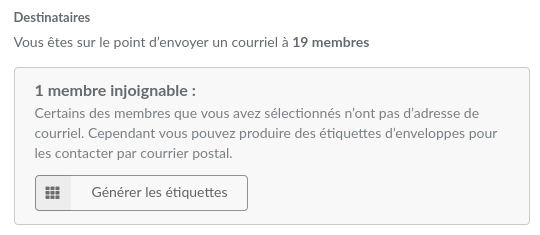
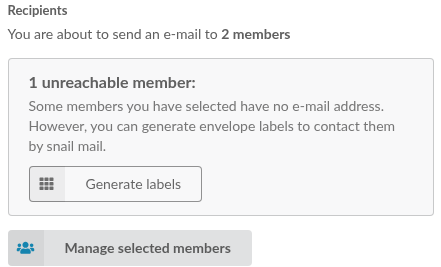
Update manual and screenshots for 1.3.2

diff --git a/source/usermanual/adherents.rst b/source/usermanual/adherents.rst
@@ -127,9 +127,6 @@ The export ends with two columns listing the groups of each member: `Groups` and
 E-Mailing
 =========
 
-.. warning:: **Mailings in Galette are designed to work from the members list.**
-
-   Direct mailing creation will work without problems, but members selection is harder.
 
 From Galette, you can send mailings to a selection of members. Each sent mailing is stored in order to be reused, so you can select a stored mailing to be used as a template, retrieving selected members list, mailing subject and contents.
 
@@ -140,20 +137,18 @@ To send a new mailing, select members from the list and then choose **Mail** in 
    :align: center
    :alt: Selected members for mailing
 
-.. note:: Selecting members in the list must be done on one page only. Filtering features, as well as the possibility to display all members will be useful ;)
+.. versionchanged:: 1.3.2
 
-.. versionadded:: 0.9.1
+The **Manage selected members** button lets you change the recipients from the mailing form: search a member by name or ID to add them, or remove one from the list. Changes are applied once validated.
 
-You can choose a sender for each mailing:
-
-* **from Galette preferences** (default value): this will use information stored in preferences,
-* **current logged-in user**: will use the name and the email of the current logged-in user (not available for super admin),
-* **other**: you can set any name and email address you want.
-
-.. image:: ../_styles/static/images/usermanual/mailing_sender.png
+.. image:: ../_styles/static/images/usermanual/mailing_recipients.png
    :scale: 50%
    :align: center
-   :alt: Sender selection
+   :alt: Manage mailing recipients
+
+.. versionchanged:: 1.3.1
+
+Mailings are always sent with the sender name and address set in the :ref:`email preferences <pref_email>`; they can no longer be changed when sending a mailing.
 
 Once the subject has been filled, you can work on the contents. You can send email in text only, or in HTML (keep in mind sending HTML messages by mail is often not the way to go). A simple HTML WYSIWYG editor is provided.
 

diff --git a/source/usermanual/recherche.rst b/source/usermanual/recherche.rst
@@ -43,7 +43,7 @@ You can filter on:
   * active accounts,
   * inactive accounts.
 
-* group affiliation,
+* group affiliation, or members that do not belong to any group,
 * presence or absence of an email address.
 
 All filters can be combined, giving you the ability to search among your active members whose have an email address and whose name contains a "a" ;)
@@ -59,7 +59,7 @@ Advanced search can be found in the main menu and propose an certain amount of f
 * **advanced search** which proposes extra fields on members that can be of use,
 * **advanced groups search** (experimental) which allow to search members belonging to all, or to any, of several selected groups,
 * **within contributions** allowing search on members contributions,
-* **free search** (experimental) which allow to select any member field possible, including dynamic fields, and which will automatically adapt to selected field. You can add and remove lines to refine search.
+* **free search** (experimental) which allow to select any member field possible, including dynamic fields, and which will automatically adapt to selected field; a field can also be searched as empty, or not empty. You can add and remove lines to refine search.
 
 .. image:: ../_styles/static/images/usermanual/advanced_search.png
    :scale: 50%

diff --git a/source/usermanual/printing.rst b/source/usermanual/printing.rst
@@ -37,7 +37,7 @@ Members can also print their own card, from **My Account**, then :ref:`My inform
 Labels
 ======
 
-**Generate labels** produces a PDF file with the postal address of each selected member, for sheets of self-adhesive labels.
+**Generate labels** produces a PDF file with the name, the company name if any, and the postal address of each selected member, for sheets of self-adhesive labels.
 
 The size of the labels, the number of columns and lines on a page, the margins and the spacing are set in the **Labels** tab of the settings. Measure your sheets of labels, set the values, and make a first try on plain paper before printing on the labels themselves.
 
